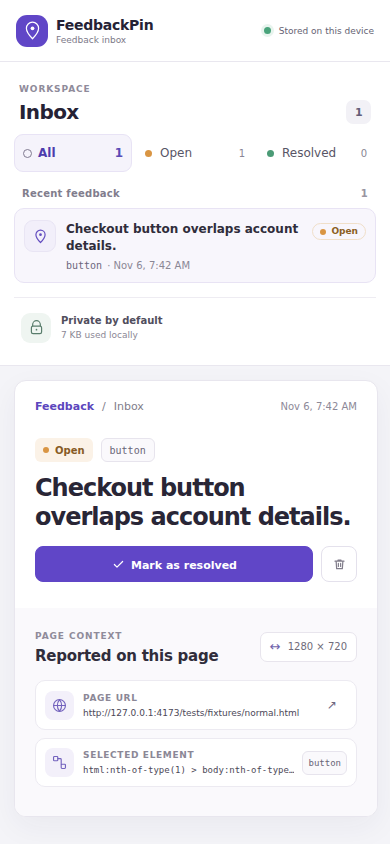
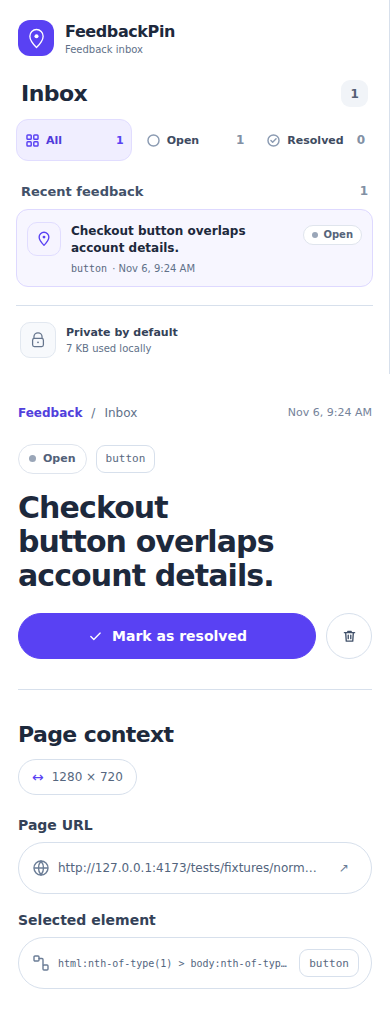
docs(ui): refresh reference-style verification evidence

diff --git a/docs/performance.md b/docs/performance.md
@@ -32,21 +32,23 @@ The 35-second performance sample uses Playwright, which observes a service-worke
 
 ## Production artifact sizes
 
-Measured by `npm run build` on 2026-11-06:
+Measured by `npm run build` in [CI run `42194513016`](https://github.com/kkonstantin08/feedbackpin/actions/runs/42194513016), commit `db109f8`, on 2026-11-06:
 
 | Artifact             |       Raw |     Gzip |
 | -------------------- | --------: | -------: |
 | On-demand selector   |   6.77 kB |  2.81 kB |
 | Service worker       |   1.57 kB |  0.80 kB |
 | Popup JavaScript     |   2.99 kB |  1.28 kB |
-| Dashboard JavaScript |  11.15 kB |  3.39 kB |
-| Shared React runtime | 219.40 kB | 68.53 kB |
-| Popup CSS            |   3.95 kB |  1.35 kB |
-| Dashboard CSS        |  14.13 kB |  3.56 kB |
+| Dashboard JavaScript |  11.09 kB |  3.34 kB |
+| Shared React runtime | 219.44 kB | 68.54 kB |
+| Popup CSS            |   3.68 kB |  1.26 kB |
+| Dashboard CSS        |  14.06 kB |  3.41 kB |
 
 React is loaded by the extension popup and dashboard. The page selector remains a standalone 6.77 kB script with no runtime module imports. `npm run check:build` checks the production MV3 manifest has only `activeTab` and `scripting`, no host permissions, no optional permissions, and no registered `content_scripts`.
 
 ## Reproduction and limits
+
+The supplied-reference UI refresh at `db109f8` passed lint, strict typecheck, 35 unit tests, six loaded-extension E2E scenarios, the worker idle-shutdown assertion, and production build in run `42194513016`. Its real popup, 390 px, and 1440 px screenshots were downloaded from that run and visually inspected. No content-script, storage, or worker logic changed in this refresh; the numerical runtime table above remains explicitly tied to the earlier measured revision.
 
 The performance experiment is part of the loaded-extension Playwright suite and runs only on GitHub Actions. The recorded command is `xvfb-run --auto-servernum npm run test:e2e`; run `42182300358` also passed lint, strict typecheck, all 35 unit tests, all six E2E scenarios, and production build. The CI workflow uploads raw measurements with a 14-day retention. No browser or Playwright process was launched on the user's laptop.
 

diff --git a/docs/tdd/reference-style-refresh.md b/docs/tdd/reference-style-refresh.md
@@ -10,4 +10,5 @@
 ## RED → GREEN
 
 - RED: `npm test -- tests/unit/dashboard.test.tsx -t "text-only reports"` failed because the page URL and selected element were plain row content with no named groups.
-- GREEN: the dashboard now exposes `Page URL` and `Selected element` as labelled groups. The same focused test passed, and the full unit suite passed 35/35. `npm run lint`, `npm run typecheck`, `npm test`, and `npm run build` pass. Remote loaded-extension E2E and current screenshots are pending; no local browser was launched.
+- GREEN: the dashboard now exposes `Page URL` and `Selected element` as labelled groups. The same focused test passed, and the full unit suite passed 35/35. `npm run lint`, `npm run typecheck`, `npm test`, and `npm run build` pass.
+- Remote verification: [run `42194513016`](https://github.com/kkonstantin08/feedbackpin/actions/runs/42194513016), commit `db109f8`, passed all six loaded-extension E2E scenarios, including 390 px overflow and worker idle shutdown. The real popup, mobile dashboard, and desktop dashboard artifacts were inspected and copied to `docs/assets/`; README uses these exact images. White surfaces, violet actions, outlined context fields, and sidebar match the supplied direction. No local browser was launched.

diff --git a/docs/plans/2026-11-06-reference-style-refresh.md b/docs/plans/2026-11-06-reference-style-refresh.md
@@ -18,6 +18,6 @@ The user supplied a white SaaS settings interface as the visual reference on 202
 
 - [x] Add a regression assertion for accessible URL and element context groups; confirm RED before implementing the markup.
 - [x] Run unit tests, lint, strict typecheck, and production build locally; do not launch a local browser.
-- [ ] Run loaded-extension E2E and create real popup, 390 px, and 1440 px screenshots only in GitHub Actions. Inspect those artifacts and update README screenshots.
-- [ ] Update `docs/performance.md` bundle sizes from the resulting production build. Existing remote runtime measurements remain applicable because this change contains no page runtime or background code.
+- [x] Run loaded-extension E2E and create real popup, 390 px, and 1440 px screenshots only in GitHub Actions. Inspect those artifacts and update README screenshots.
+- [x] Update `docs/performance.md` bundle sizes from the resulting production build. Existing remote runtime measurements remain applicable because this change contains no page runtime or background code.
 - [ ] Record final visual review evidence in `docs/tdd/reference-style-refresh.md` and complete an independent GPT-6 Luna High follow-up audit before publishing `main`.
